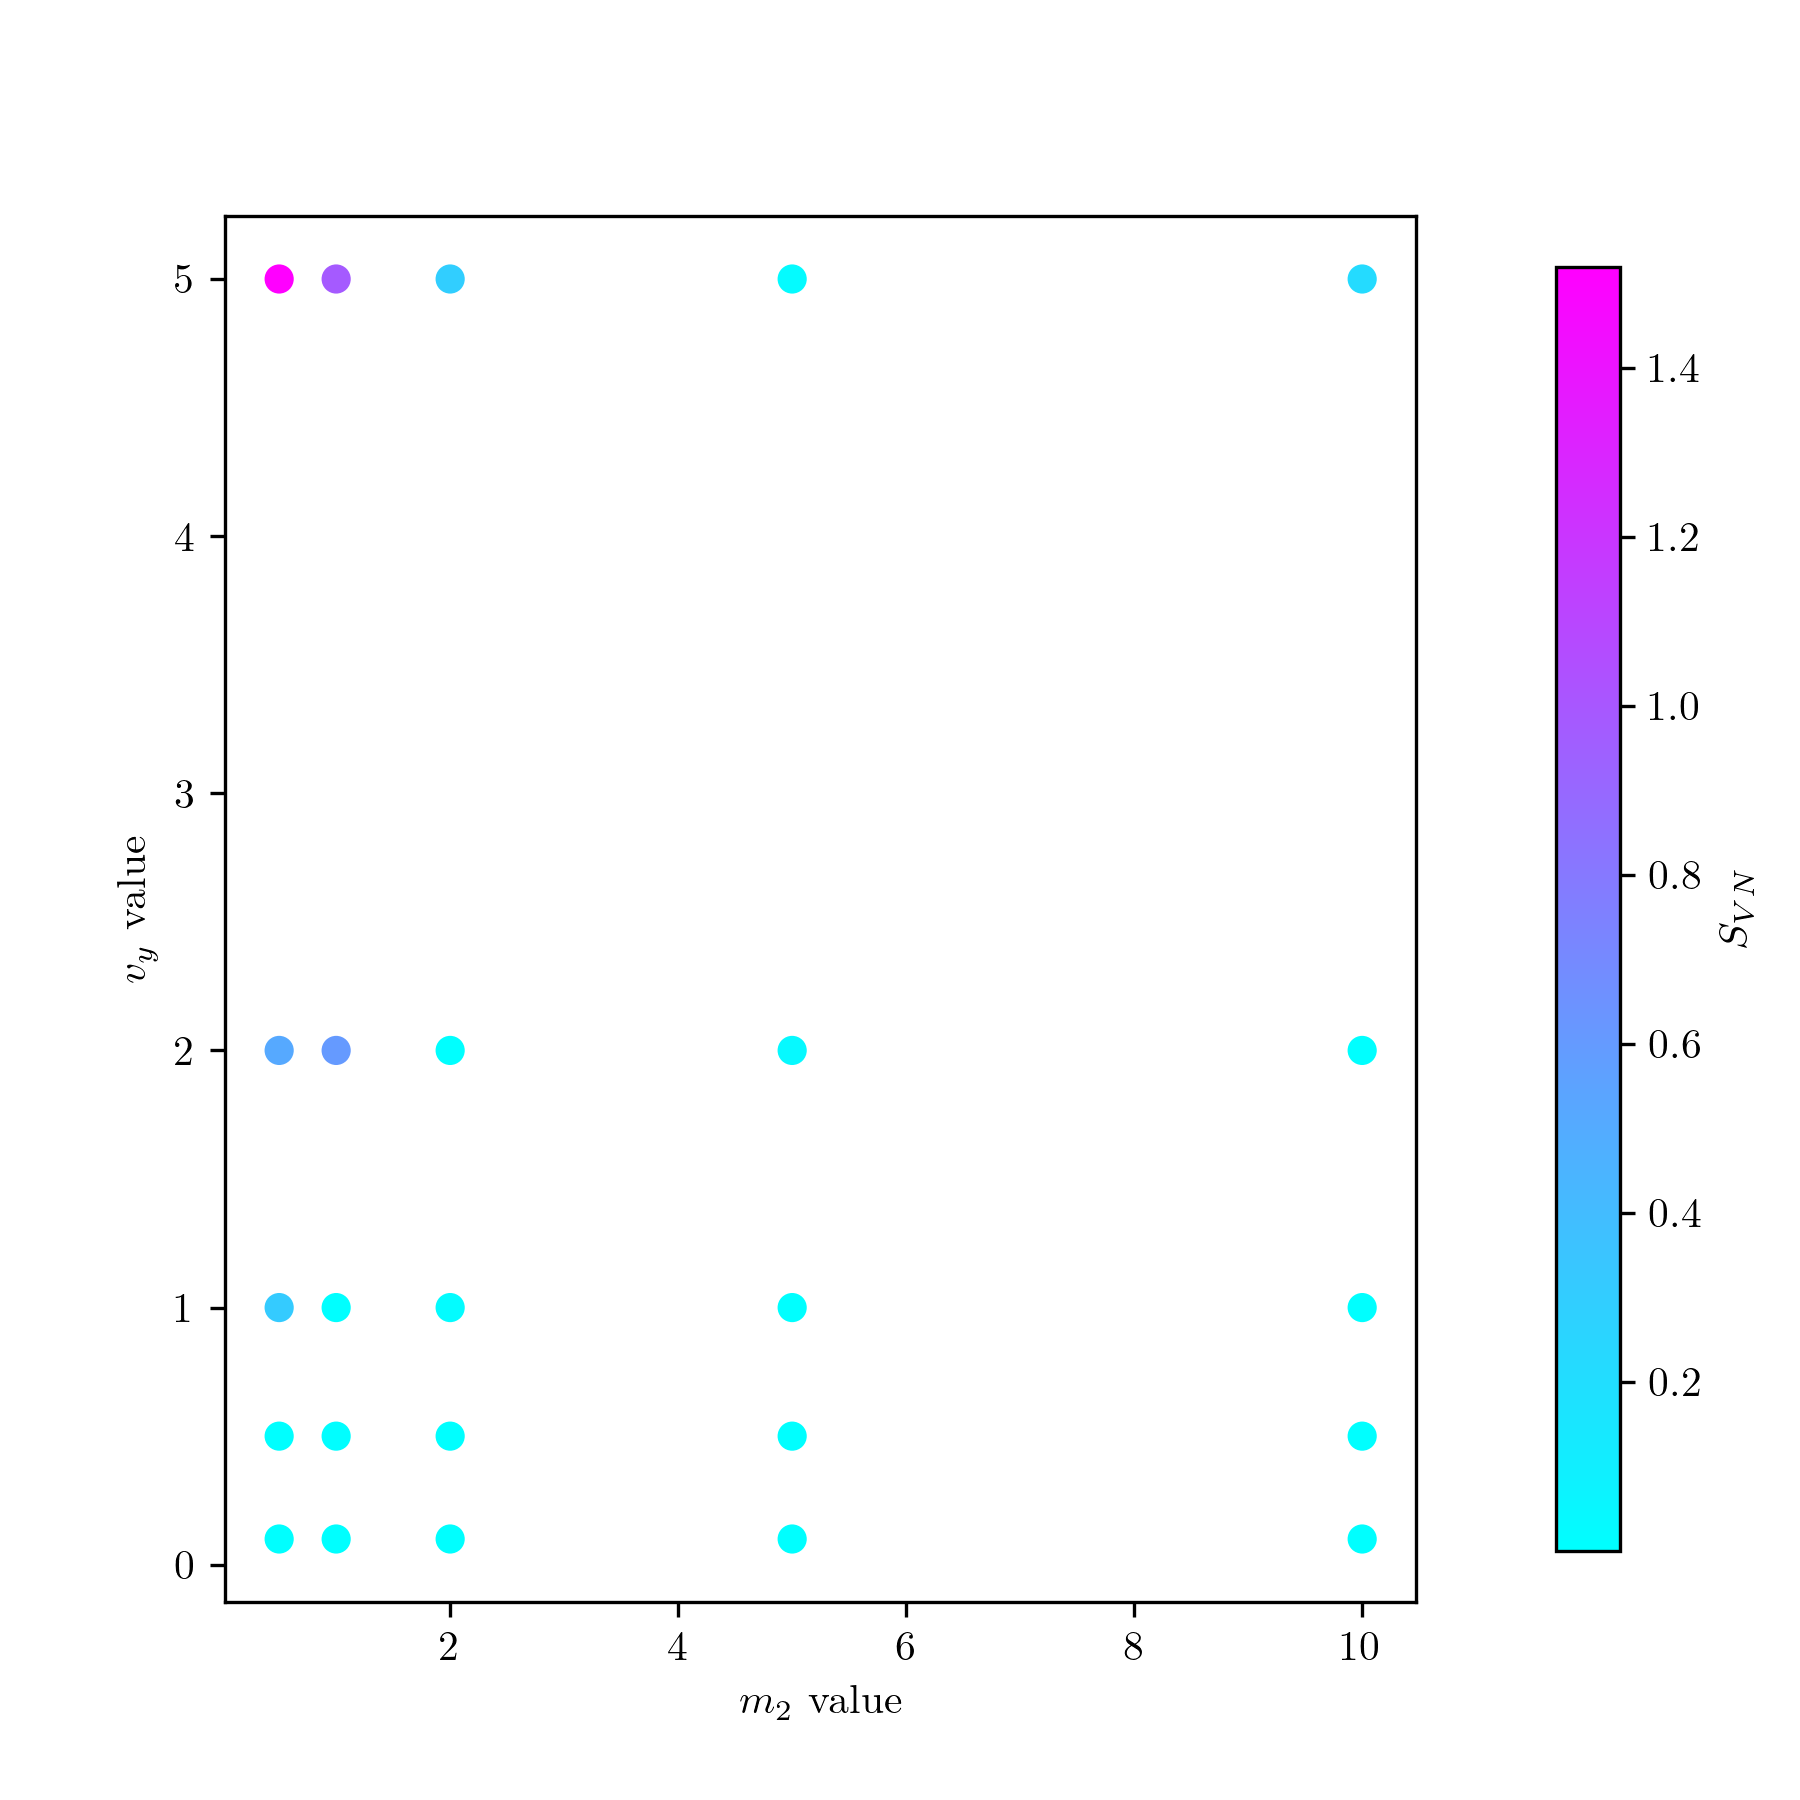
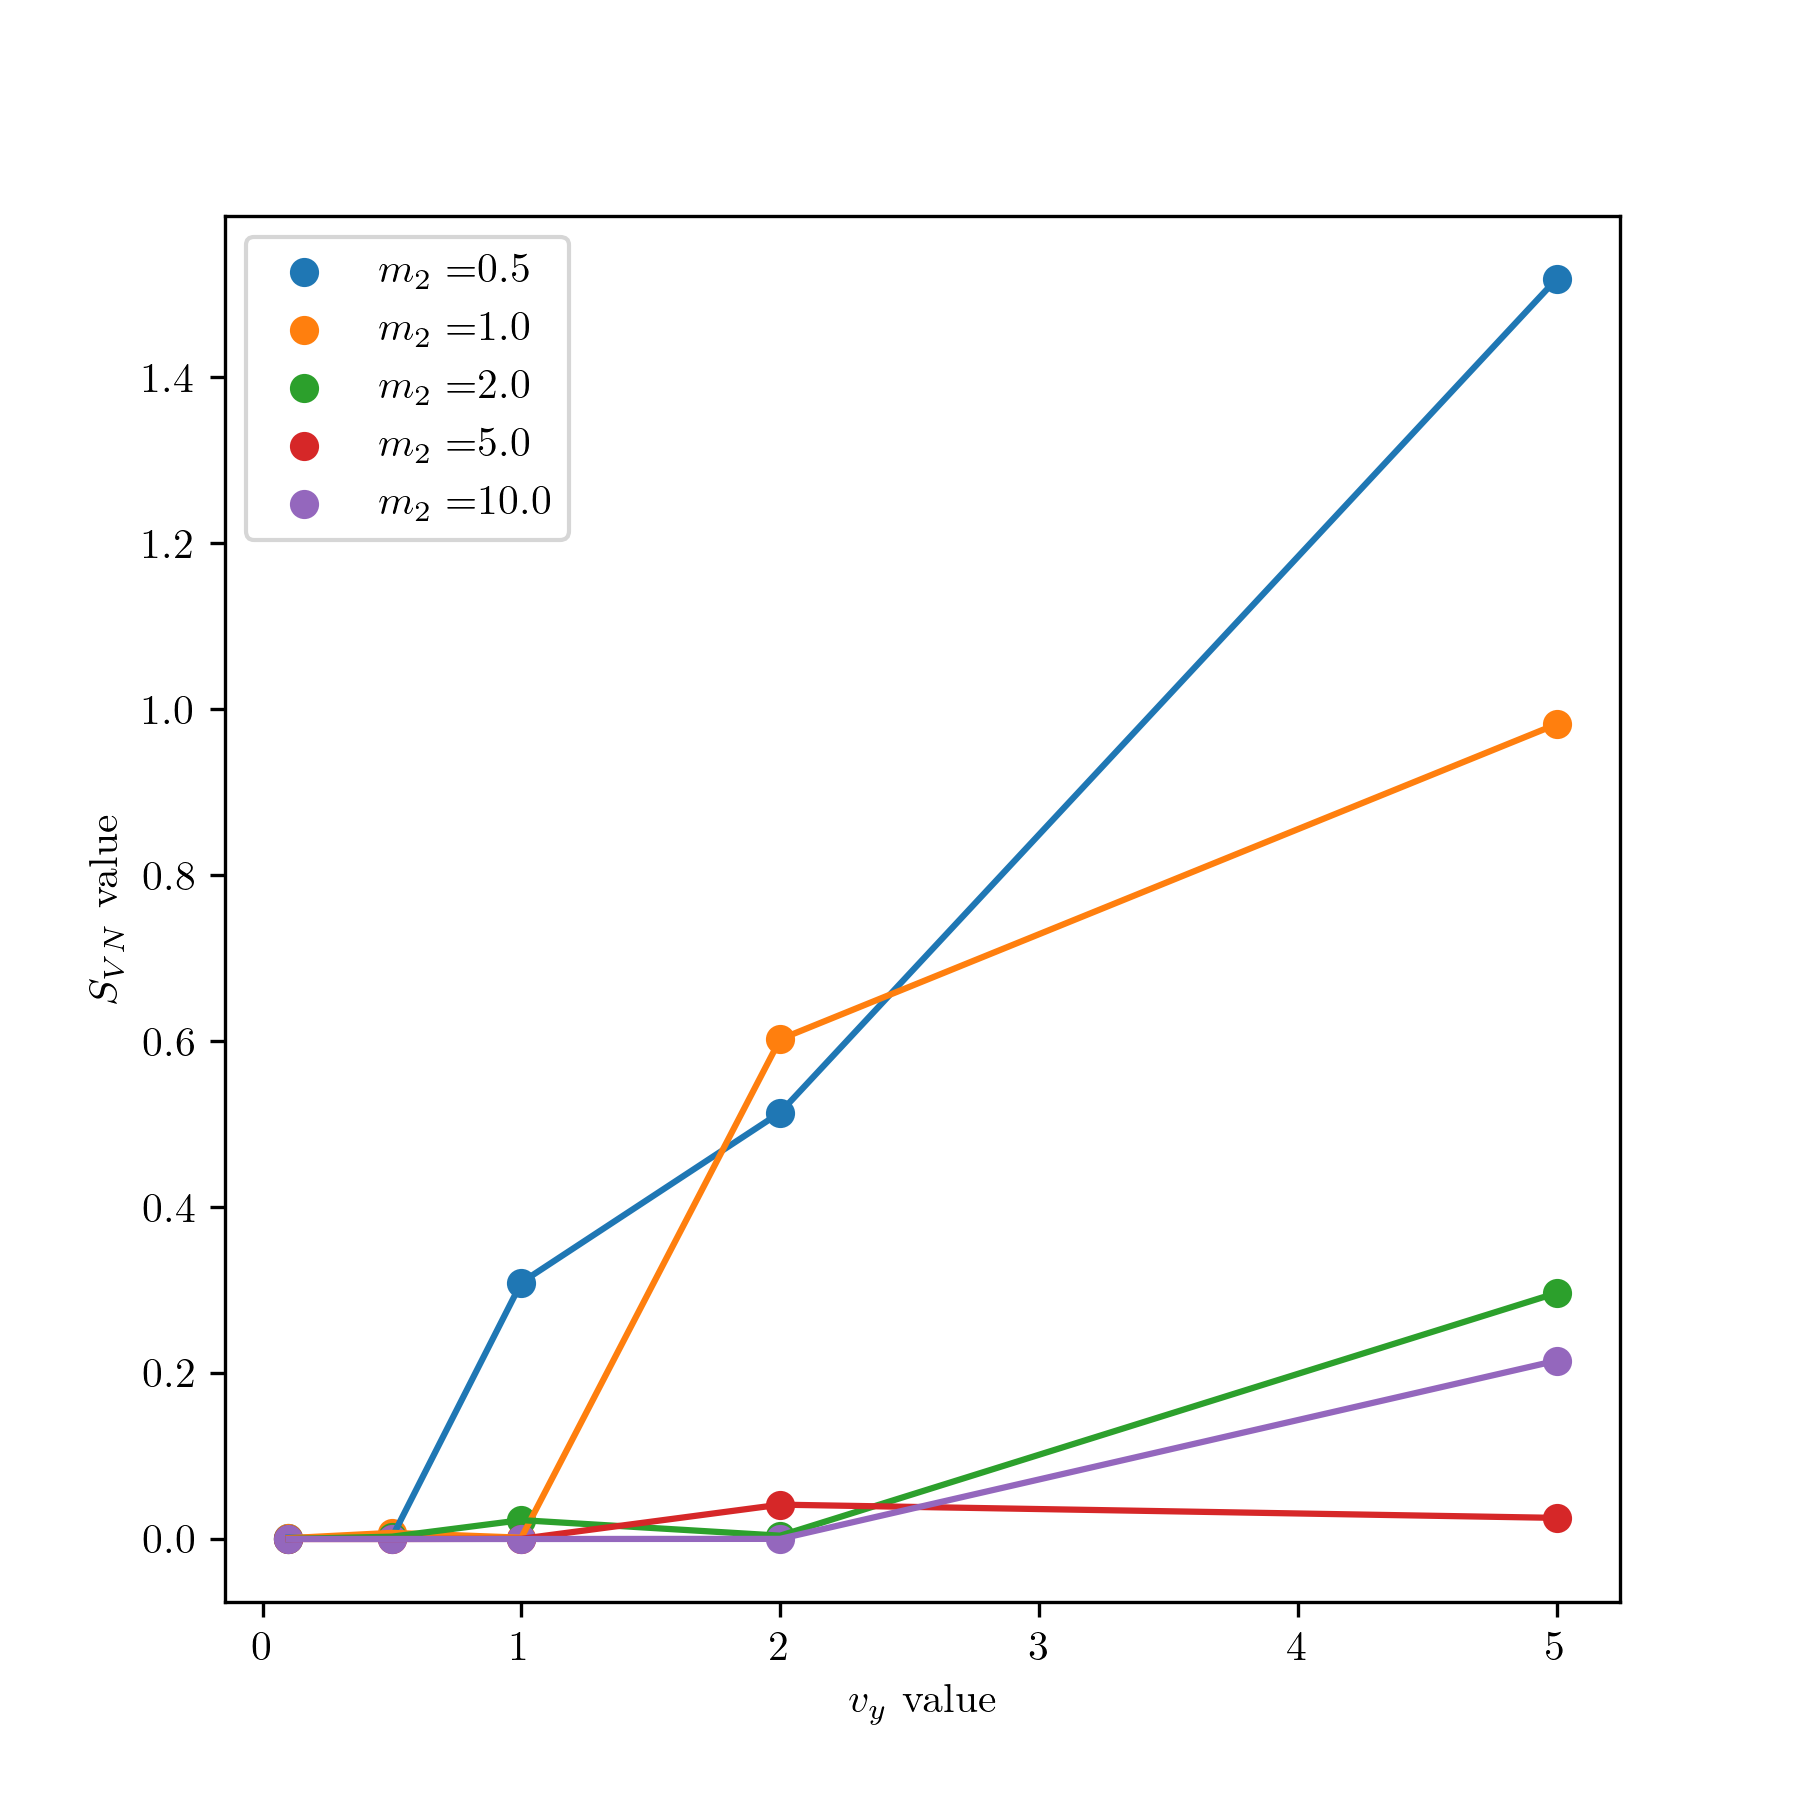
Fixed cross-sections

diff --git a/MassPlot.py b/MassPlot.py
@@ -80,8 +80,8 @@ for m in m1Vals:
     ax = fig.add_subplot()
     #ax.view_init(30,110,0)
 
-    ax.set_xlabel("$m_2$ value")
-    ax.set_ylabel("$v_y$ value")
+    ax.set_xlabel("$v_y$ value")
+    ax.set_ylabel("$S_{VN}$ value")
 
     markersize = 50
     def update_prop(handle, orig):
@@ -89,13 +89,14 @@ for m in m1Vals:
         handle.set_sizes([markersize])
 
     sc = 0
-    ptr = 0
     vals = entropy[(entropy[:,0] == m)]
-    sizes = [(10*n/max_entropy)**2 for n in vals[:,3]]
-    sc = ax.scatter(vals[:,1], vals[:,2], c = vals[:,3], cmap = plt.get_cmap('cool'))
-    ptr += 1
-    #ax.legend(title="$m_1$ Value",handler_map={type(sc): HandlerPathCollection(update_func=update_prop)})
-    plt.colorbar(sc, fraction=0.046, pad = 0.1, label = "$S_{VN}$")
+    m2Vals = np.unique(entropy[:,1])
+    for m2 in m2Vals:
+        spec_vals = vals[vals[:,1] == m2]
+        sc = ax.scatter(spec_vals[:,2], spec_vals[:,3], label = "$m_2=${}".format(m2))
+        ax.plot(spec_vals[:,2], spec_vals[:,3])
+    ax.legend()
+    #plt.colorbar(sc, fraction=0.046, pad = 0.1, label = "$S_{VN}$")
     plt.savefig(plotdir + "Entropy_Plot_m1_{}.png".format(str(m).replace('.','')))
 
 #Plot the hamiltonians with color and size based on value
@@ -131,20 +132,16 @@ for m in m1Vals:
     ax = fig.add_subplot()
     #ax.view_init(30,110,0)
 
-    ax.set_xlabel("$m_2$ value")
-    ax.set_ylabel("$v_y$ value")
-
-    markersize = 50
-    def update_prop(handle, orig):
-        handle.update_from(orig)
-        handle.set_sizes([markersize])
+    ax.set_xlabel("$v_y$ value")
+    ax.set_ylabel("$H_{x}$ value")
 
     sc = 0
-    ptr = 0
     vals = hamiltonian[(hamiltonian[:,0] == m)]
-    sizes = [(10*n/max_hamiltonian)**2 for n in vals[:,3]]
-    sc = ax.scatter(vals[:,1], vals[:,2], c = vals[:,3], cmap = plt.get_cmap('cool'))
-    ptr += 1
-    #ax.legend(title="$m_1$ Value",handler_map={type(sc): HandlerPathCollection(update_func=update_prop)})
-    plt.colorbar(sc, fraction=0.046, pad = 0.1, label = "$H_{x}$")
+    m2Vals = np.unique(hamiltonian[:,1])
+    for m2 in m2Vals:
+        spec_vals = vals[vals[:,1] == m2]
+        sc = ax.scatter(spec_vals[:,2], spec_vals[:,3], label = "$m_2=${}".format(m2))
+        ax.plot(spec_vals[:,2], spec_vals[:,3])
+    ax.legend()
+    #plt.colorbar(sc, fraction=0.046, pad = 0.1, label = "$S_{VN}$")
     plt.savefig(plotdir + "Hamiltonian_Plot_m1_{}.png".format(str(m).replace('.','')))
